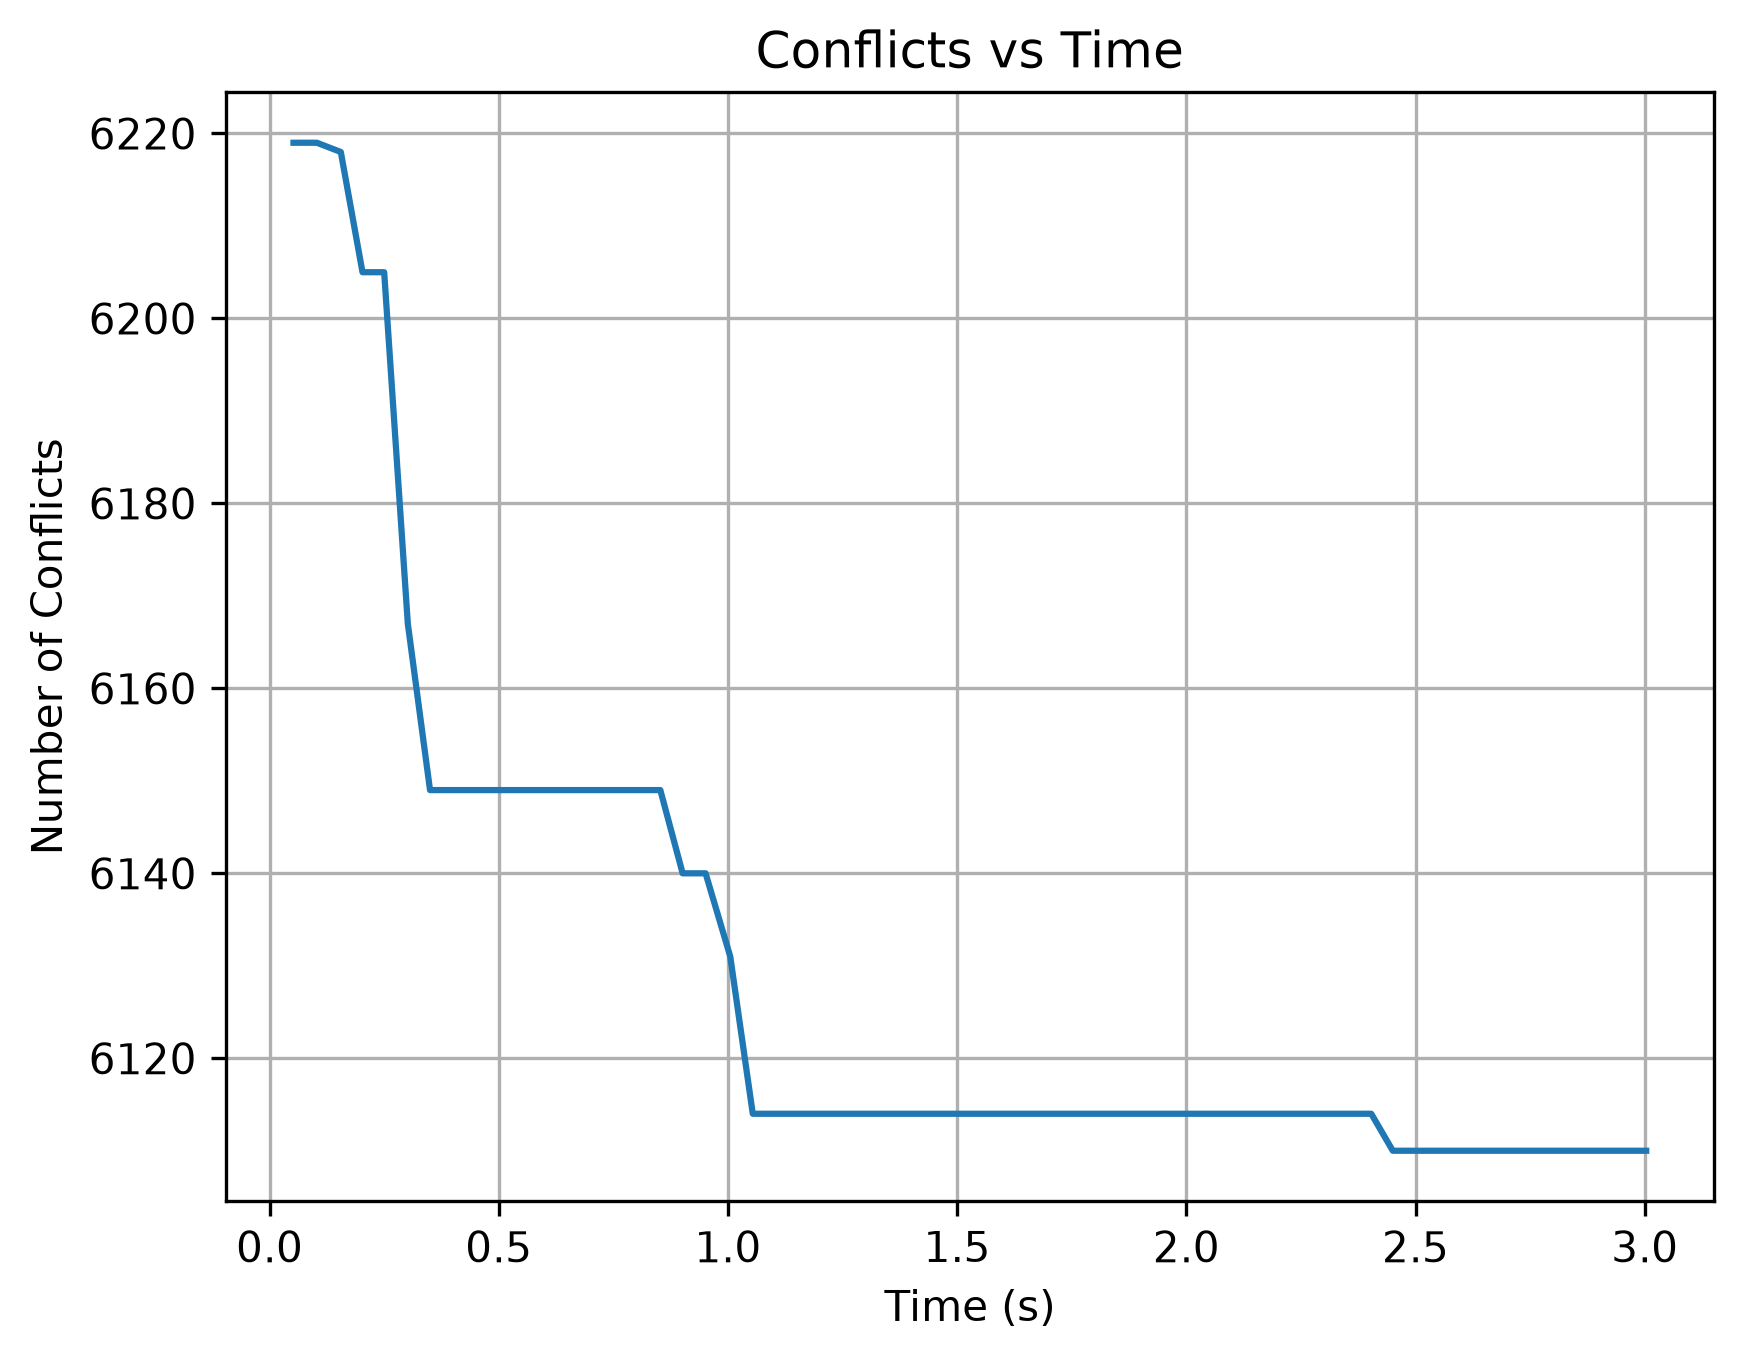
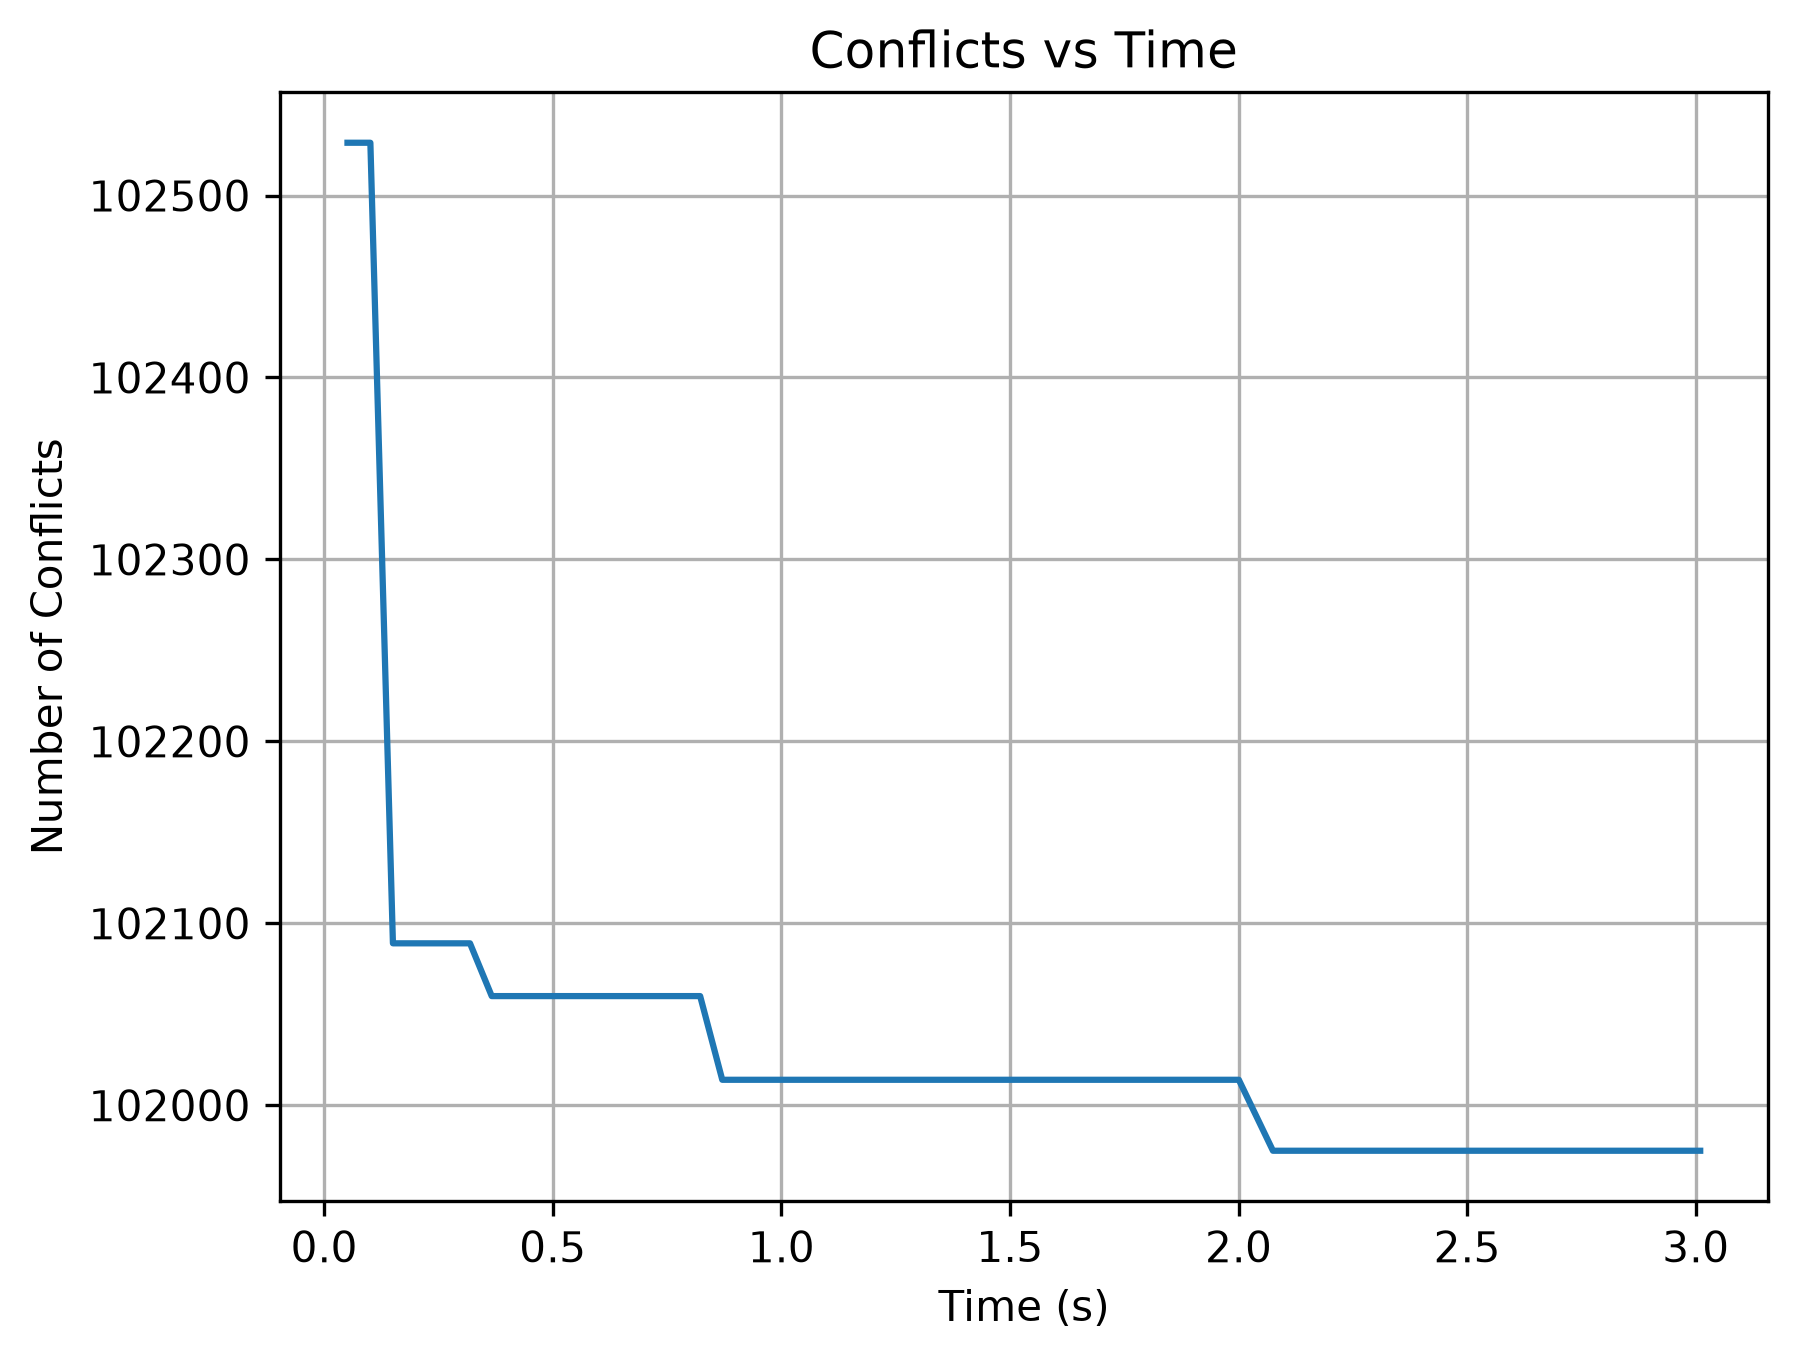
added benchmarks
temp

diff --git a/codes/main.py b/codes/main.py
@@ -1,13 +1,193 @@
-from solvers import *
-from graph_colorer import *
+import argparse
+import time
 
-g1 = Graph().from_file('graphs/graph3.txt')
+import numpy as np
 
-print(g1.count_conflicts())
+from graph_colorer import Graph
+from solvers import LiftedChromaticPottsSolver, PottsSolver, RandomSolver
 
-solver1 = RandomSolver(g1, 10, beta = 10, n_seconds=3)
-solver2 = PottsSolver(g1, 10, beta = 10, n_seconds=3)
 
-solver1.solve()
-solver2.solve()
-# random_solver(g1, 15)
+_rng = np.random.default_rng()
+
+
+def initialize_random_colors(graph, q):
+    for node in graph.nodes:
+        node.color = int(_rng.integers(0, q))
+
+
+def metropolis_acceptance(beta, energy_delta):
+    if energy_delta <= 0:
+        return 1.0
+    return float(np.exp(-beta * energy_delta))
+
+
+def estimate_iat(trace, burn_in_fraction=0.1):
+    values = np.asarray(trace, dtype=float)
+    if values.size < 4:
+        return np.nan, 0, np.nan
+
+    burn_in = int(values.size * burn_in_fraction)
+    values = values[burn_in:]
+    n = values.size
+    centered = values - values.mean()
+    variance = np.dot(centered, centered) / n
+
+    if variance == 0:
+        return np.inf, n, 0.0
+
+    autocov = np.correlate(centered, centered, mode="full")[n - 1:] / np.arange(n, 0, -1)
+    autocorr = autocov / variance
+
+    positive_lags = []
+    for rho in autocorr[1:]:
+        if rho <= 0:
+            break
+        positive_lags.append(rho)
+
+    tau_int = 0.5 + float(np.sum(positive_lags))
+    ess = n / (2.0 * tau_int)
+    return tau_int, n, ess
+
+
+def run_random_recoloring(graph_path, q, beta, n_seconds):
+    graph = Graph().from_file(graph_path)
+    initialize_random_colors(graph, q)
+    solver = RandomSolver(graph, q, beta=beta, n_seconds=n_seconds)
+    solver.save_plot = False
+
+    trace = []
+    start = time.perf_counter()
+    while time.perf_counter() - start < n_seconds:
+        for node in graph.nodes:
+            node.color = int(_rng.integers(0, q))
+        trace.append(graph.count_conflicts())
+
+    wall_time = time.perf_counter() - start
+    return trace, wall_time, graph.count_conflicts()
+
+
+def run_single_site_potts(graph_path, q, beta, n_seconds):
+    graph = Graph().from_file(graph_path)
+    initialize_random_colors(graph, q)
+    solver = PottsSolver(graph, q, beta=beta, n_seconds=n_seconds)
+    solver.save_plot = False
+
+    conflicts = graph.count_conflicts()
+    trace = []
+    start = time.perf_counter()
+
+    while time.perf_counter() - start < n_seconds:
+        for _ in range(graph.n_nodes):
+            node_i = int(_rng.integers(0, graph.n_nodes))
+            node = graph.nodes[node_i]
+            old_color = node.color
+            old_local_conflicts = graph.count_conflicts_i(node_i)
+
+            node.color = int(_rng.integers(0, q))
+            new_local_conflicts = graph.count_conflicts_i(node_i)
+            new_conflicts = conflicts - old_local_conflicts + new_local_conflicts
+
+            if _rng.random() < metropolis_acceptance(beta, new_conflicts - conflicts):
+                conflicts = new_conflicts
+            else:
+                node.color = old_color
+
+        trace.append(conflicts)
+
+    wall_time = time.perf_counter() - start
+    return trace, wall_time, conflicts
+
+
+def run_lifted_chromatic_potts(graph_path, q, beta, n_seconds, refresh_rate):
+    graph = Graph().from_file(graph_path)
+    initialize_random_colors(graph, q)
+    solver = LiftedChromaticPottsSolver(
+        graph,
+        q,
+        beta=beta,
+        n_seconds=n_seconds,
+        refresh_rate=refresh_rate,
+    )
+    solver.save_plot = False
+
+    conflicts = graph.count_conflicts()
+    trace = []
+    start = time.perf_counter()
+
+    while time.perf_counter() - start < n_seconds:
+        for color_class in solver.color_classes:
+            for node_i in color_class:
+                conflicts = solver._try_lifted_move(node_i, conflicts)
+        trace.append(conflicts)
+
+    wall_time = time.perf_counter() - start
+    return trace, wall_time, conflicts
+
+
+def benchmark_model(name, runner, graph_path, q, beta, n_seconds, refresh_rate):
+    if name == "LiftedChromaticPotts":
+        trace, wall_time, final_conflicts = runner(graph_path, q, beta, n_seconds, refresh_rate)
+    else:
+        trace, wall_time, final_conflicts = runner(graph_path, q, beta, n_seconds)
+
+    tau_int, samples, ess = estimate_iat(trace)
+    ess_per_second = ess / wall_time if wall_time > 0 else np.nan
+
+    return {
+        "name": name,
+        "samples": samples,
+        "wall_time": wall_time,
+        "iat": tau_int,
+        "ess": ess,
+        "ess_per_second": ess_per_second,
+        "final_conflicts": final_conflicts,
+    }
+
+
+def print_results(results):
+    print()
+    print("model                    samples  seconds       IAT    ESS/sec  final_conflicts")
+    print("----------------------  --------  -------  --------  ---------  ---------------")
+    for result in results:
+        print(
+            f"{result['name']:<22}"
+            f"{result['samples']:>8d}"
+            f"{result['wall_time']:>9.2f}"
+            f"{result['iat']:>10.3g}"
+            f"{result['ess_per_second']:>11.2f}"
+            f"{result['final_conflicts']:>17d}"
+        )
+
+
+def parse_args():
+    parser = argparse.ArgumentParser(description="Benchmark graph coloring samplers by IAT and ESS/sec.")
+    parser.add_argument("--graph", default="graphs/graph5.txt", help="Graph file to benchmark.")
+    parser.add_argument("--q", type=int, default=3, help="Number of Potts colors.")
+    parser.add_argument("--beta", type=float, default=10.0, help="Inverse temperature.")
+    parser.add_argument("--seconds", type=float, default=3.0, help="Seconds per sampler.")
+    parser.add_argument("--refresh-rate", type=float, default=0.05, help="Lifted direction refresh rate.")
+    return parser.parse_args()
+
+
+def main():
+    args = parse_args()
+    models = [
+        ("RandomRecoloring", run_random_recoloring),
+        ("SingleSitePotts", run_single_site_potts),
+        ("LiftedChromaticPotts", run_lifted_chromatic_potts),
+    ]
+
+    print(
+        f"Benchmarking {args.graph} with q={args.q}, beta={args.beta}, "
+        f"{args.seconds:.1f}s per sampler"
+    )
+
+    results = [
+        benchmark_model(name, runner, args.graph, args.q, args.beta, args.seconds, args.refresh_rate)
+        for name, runner in models
+    ]
+    print_results(results)
+
+
+if __name__ == "__main__":
+    main()

diff --git a/codes/solvers.py b/codes/solvers.py
@@ -1,8 +1,30 @@
-import matplotlib.pyplot as plt
 import numpy as np
 from profiler import Profiler
 
 _rng = np.random.default_rng()
+
+
+def _save_conflict_plot(time_list, n_conflicts_list, title, filename):
+    try:
+        import matplotlib.pyplot as plt
+    except ModuleNotFoundError:
+        print("matplotlib is not installed; skipping plot.")
+        return
+
+    plt.figure()
+    plt.plot(time_list, n_conflicts_list)
+    plt.xlabel('Time (s)')
+    plt.ylabel('Number of Conflicts')
+    plt.title(title)
+    plt.grid()
+    plt.savefig(filename, dpi=300, bbox_inches="tight")
+    plt.close()
+
+
+def _metropolis_acceptance(beta, energy_delta):
+    if energy_delta <= 0:
+        return 1.0
+    return np.exp(-beta * energy_delta)
 
 class Solver:
     def __init__(self, g1, q, beta = 1.0, n_seconds=None):
@@ -12,6 +34,30 @@ class Solver:
         self.n_seconds = n_seconds
         self.profiler = Profiler(interval=0.05)
         self.save_plot = True
+
+
+def _greedy_independent_sets(graph):
+    node_to_class = [-1 for _ in range(graph.n_nodes)]
+    color_classes = []
+
+    for node_id in range(graph.n_nodes):
+        unavailable = {
+            node_to_class[neighbor_id]
+            for neighbor_id in graph.edges[node_id]
+            if node_to_class[neighbor_id] != -1
+        }
+
+        class_id = 0
+        while class_id in unavailable:
+            class_id += 1
+
+        if class_id == len(color_classes):
+            color_classes.append([])
+
+        color_classes[class_id].append(node_id)
+        node_to_class[node_id] = class_id
+
+    return color_classes
 
 
 class RandomSolver(Solver):
@@ -50,15 +96,98 @@ class RandomSolver(Solver):
 
 
         if self.save_plot:
-            plt.plot(time_list, n_conflicts_list)
-            plt.xlabel('Time (s)')
-            plt.ylabel('Number of Conflicts')
-            plt.title('Conflicts vs Time')
-            plt.grid()
-            plt.savefig("stats/random_solver.png", dpi=300, bbox_inches="tight")
+            _save_conflict_plot(
+                time_list,
+                n_conflicts_list,
+                'Conflicts vs Time',
+                "stats/random_solver.png",
+            )
 
 
         return self.g1
+
+class LiftedChromaticPottsSolver(Solver):
+    def __init__(self, g1, q, beta=1.0, n_seconds=None, refresh_rate=0.05, coupling_sign=1):
+        super().__init__(g1, q, beta, n_seconds)
+        if q < 2:
+            raise ValueError("q must be at least 2.")
+        if not 0.0 <= refresh_rate <= 1.0:
+            raise ValueError("refresh_rate must be between 0 and 1.")
+        if coupling_sign not in (-1, 1):
+            raise ValueError("coupling_sign must be 1 for antiferromagnetic or -1 for ferromagnetic.")
+
+        self.refresh_rate = refresh_rate
+        self.coupling_sign = coupling_sign
+        self.directions = _rng.choice(np.array([-1, 1]), size=self.g1.n_nodes)
+        self.color_classes = _greedy_independent_sets(self.g1)
+
+    def _refresh_direction(self, node_i):
+        if _rng.random() < self.refresh_rate:
+            self.directions[node_i] = -1 if _rng.random() < 0.5 else 1
+
+    def _try_lifted_move(self, node_i, old_conflicts):
+        node = self.g1.nodes[node_i]
+        old_color = node.color
+        old_local_conflicts = self.g1.count_conflicts_i(node_i)
+
+        self._refresh_direction(node_i)
+        proposed_color = (old_color + self.directions[node_i]) % self.q
+        node.color = proposed_color
+
+        new_local_conflicts = self.g1.count_conflicts_i(node_i)
+        conflict_delta = new_local_conflicts - old_local_conflicts
+        energy_delta = self.coupling_sign * conflict_delta
+
+        prob = _metropolis_acceptance(self.beta, energy_delta)
+        if _rng.random() < prob:
+            return old_conflicts + conflict_delta
+
+        node.color = old_color
+        self.directions[node_i] *= -1
+        return old_conflicts
+
+    def solve(self):
+        solved = False
+        best_conflicts = self.g1.n_nodes * self.g1.n_nodes
+
+        old_conflicts = self.g1.count_conflicts()
+        self.profiler.start()
+
+        n_conflicts_list = []
+        time_list = []
+
+        while not solved:
+            if self.n_seconds is not None and self.profiler.get_elapsed_time() > self.n_seconds:
+                print("Time limit reached.")
+                break
+
+            for color_class in self.color_classes:
+                for node_i in color_class:
+                    old_conflicts = self._try_lifted_move(node_i, old_conflicts)
+
+            if old_conflicts < best_conflicts:
+                best_conflicts = old_conflicts
+                print("Best conflicts: ", best_conflicts)
+
+            if self.profiler.past_interval():
+                n_conflicts_list.append(best_conflicts)
+                time_list.append(self.profiler.get_elapsed_time())
+
+            if old_conflicts == 0:
+                solved = True
+
+        if self.save_plot:
+            _save_conflict_plot(
+                time_list,
+                n_conflicts_list,
+                'Conflicts vs Time',
+                "stats/lifted_chromatic_potts_solver.png",
+            )
+
+        return self.g1
+
+
+LiftedChromaticMetropolisSolver = LiftedChromaticPottsSolver
 
 class PottsSolver(Solver):
     def __init__(self, g1, q, beta = 1.0, n_seconds=None):
@@ -97,7 +226,7 @@ class PottsSolver(Solver):
             # change in conflicts
             new_conflicts = old_conflicts - old_local_conflicts + new_local_conflicts 
 
-            prob = min(1.0, np.exp(-self.beta * (new_conflicts - old_conflicts)))
+            prob = _metropolis_acceptance(self.beta, new_conflicts - old_conflicts)
 
             # accept new color 
             if _rng.random() < prob:
@@ -120,12 +249,11 @@ class PottsSolver(Solver):
             it_cnt += 1
 
         if self.save_plot:
-            plt.plot(time_list, n_conflicts_list)
-            plt.xlabel('Time (s)')
-            plt.ylabel('Number of Conflicts')
-            plt.title('Conflicts vs Time')
-            plt.grid()
-            plt.savefig("stats/potts_solver.png", dpi=300, bbox_inches="tight")
+            _save_conflict_plot(
+                time_list,
+                n_conflicts_list,
+                'Conflicts vs Time',
+                "stats/potts_solver.png",
+            )
 
         return self.g1
-